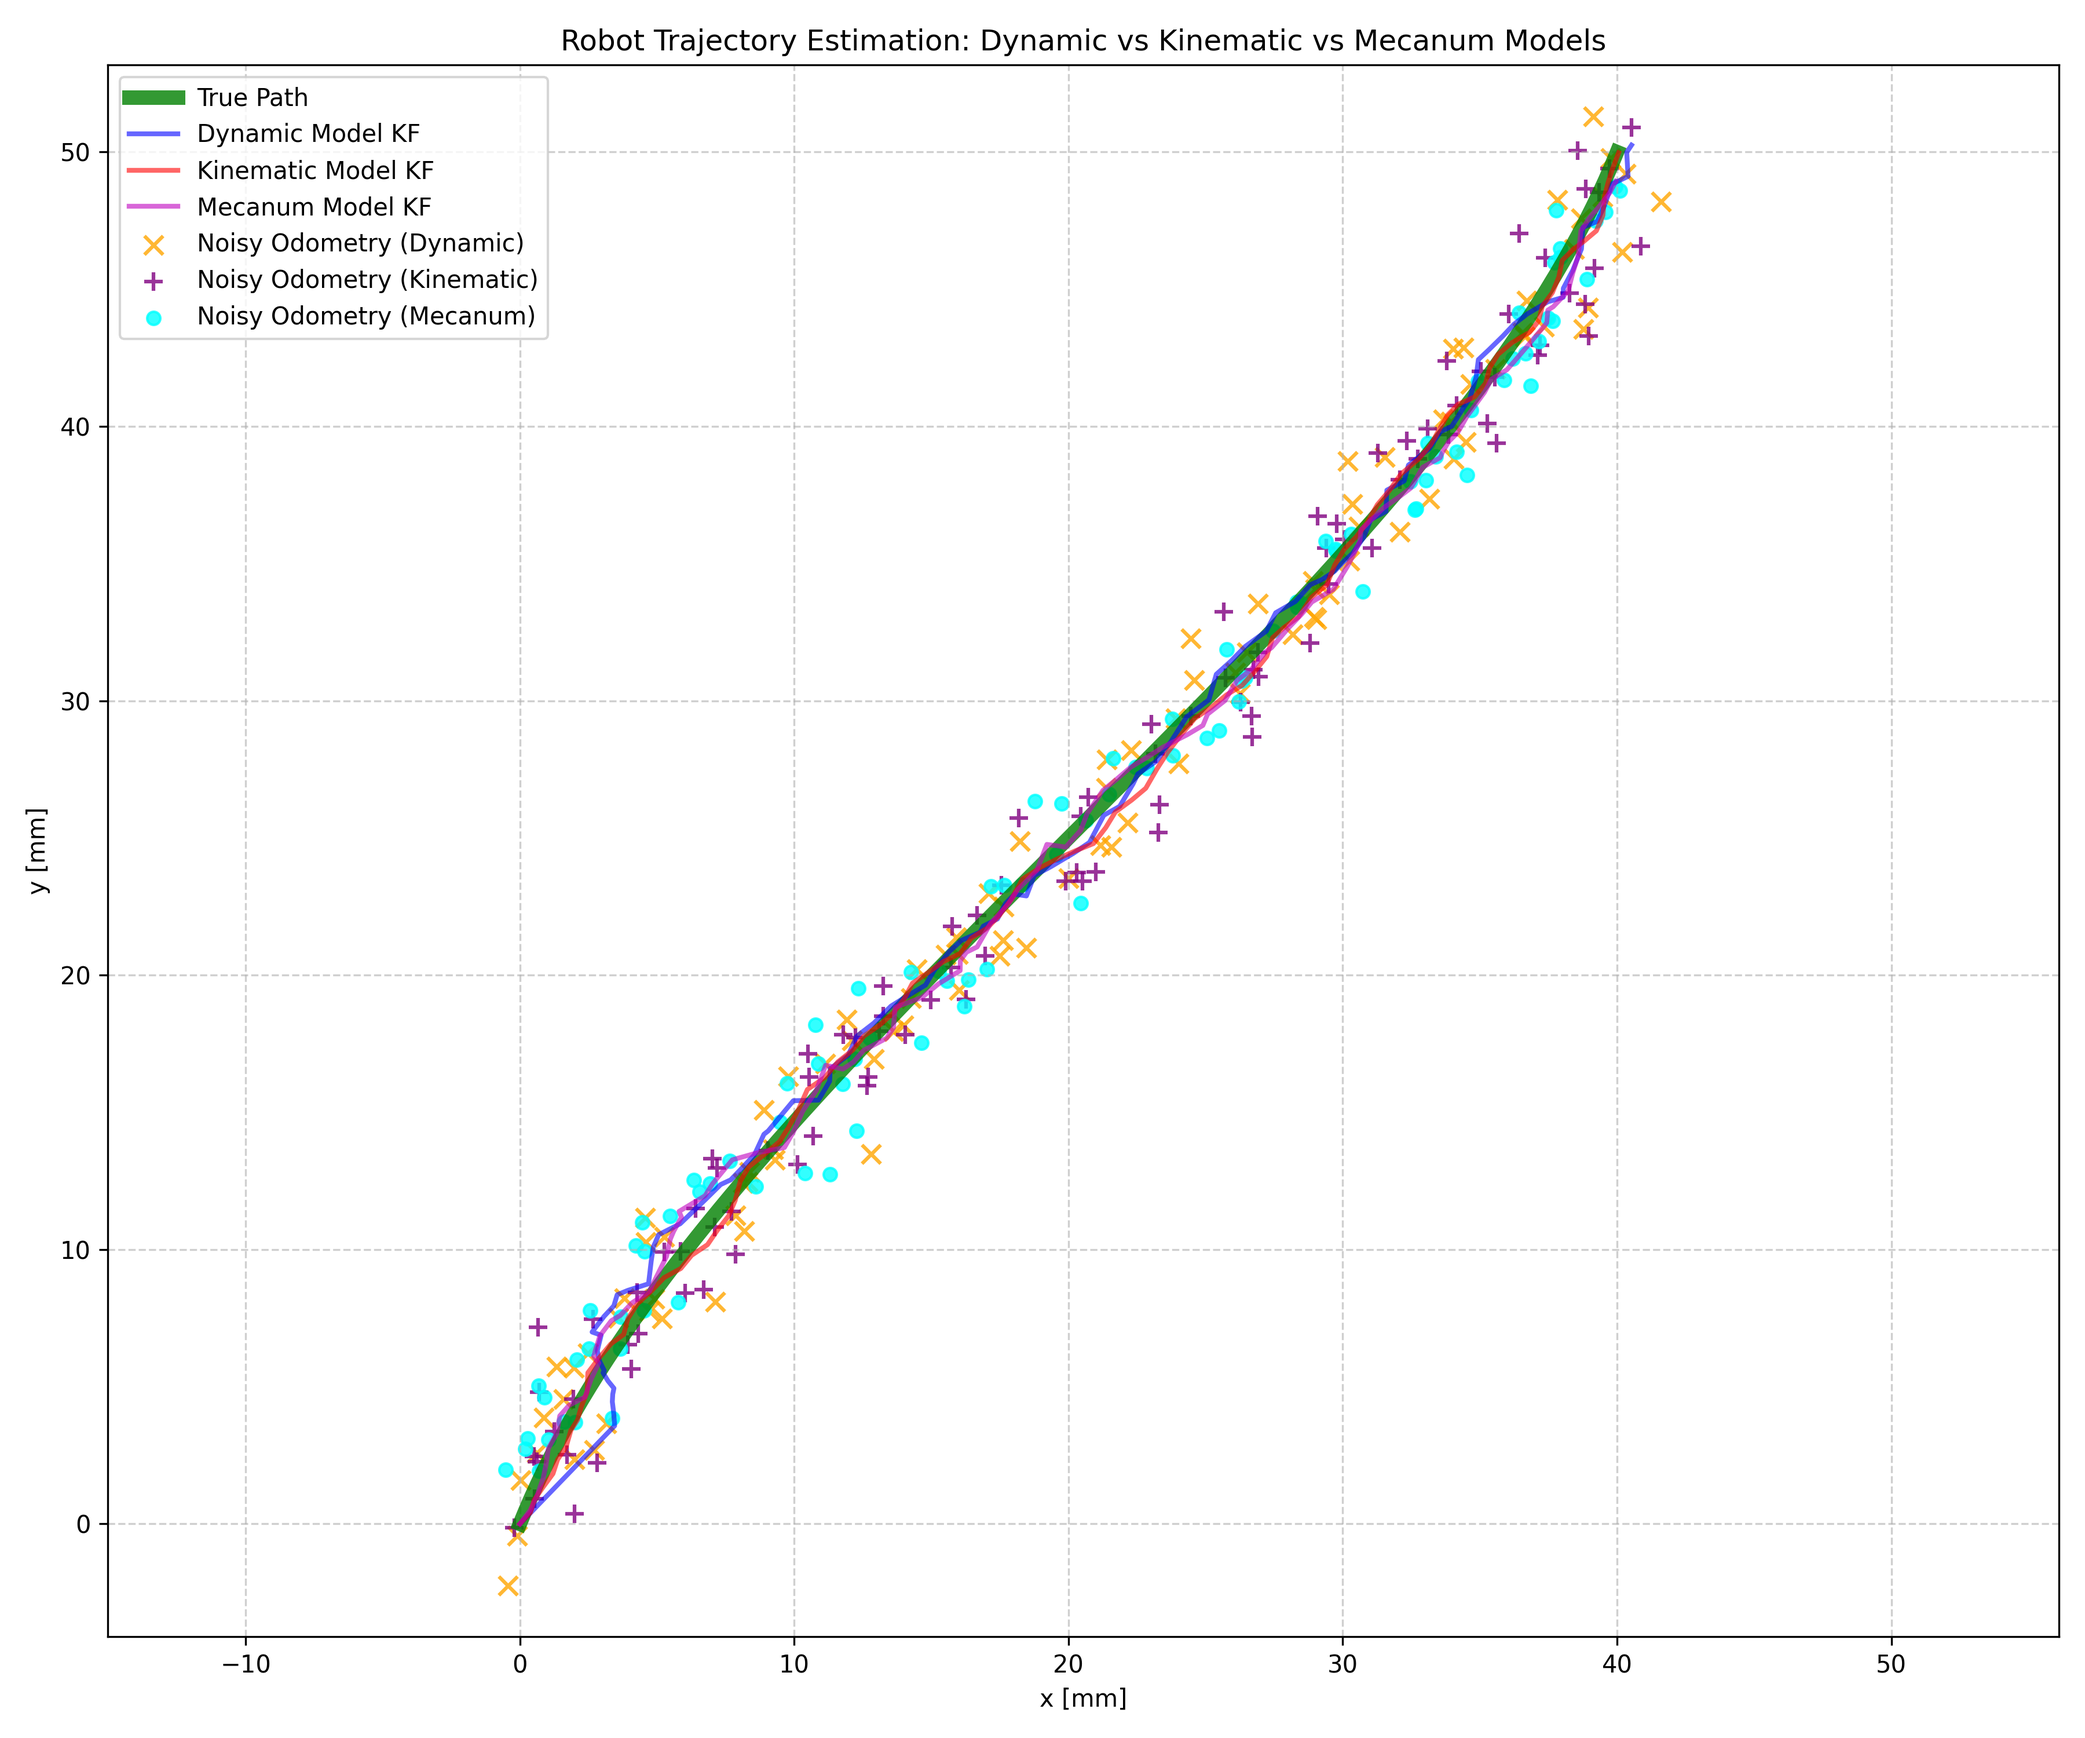
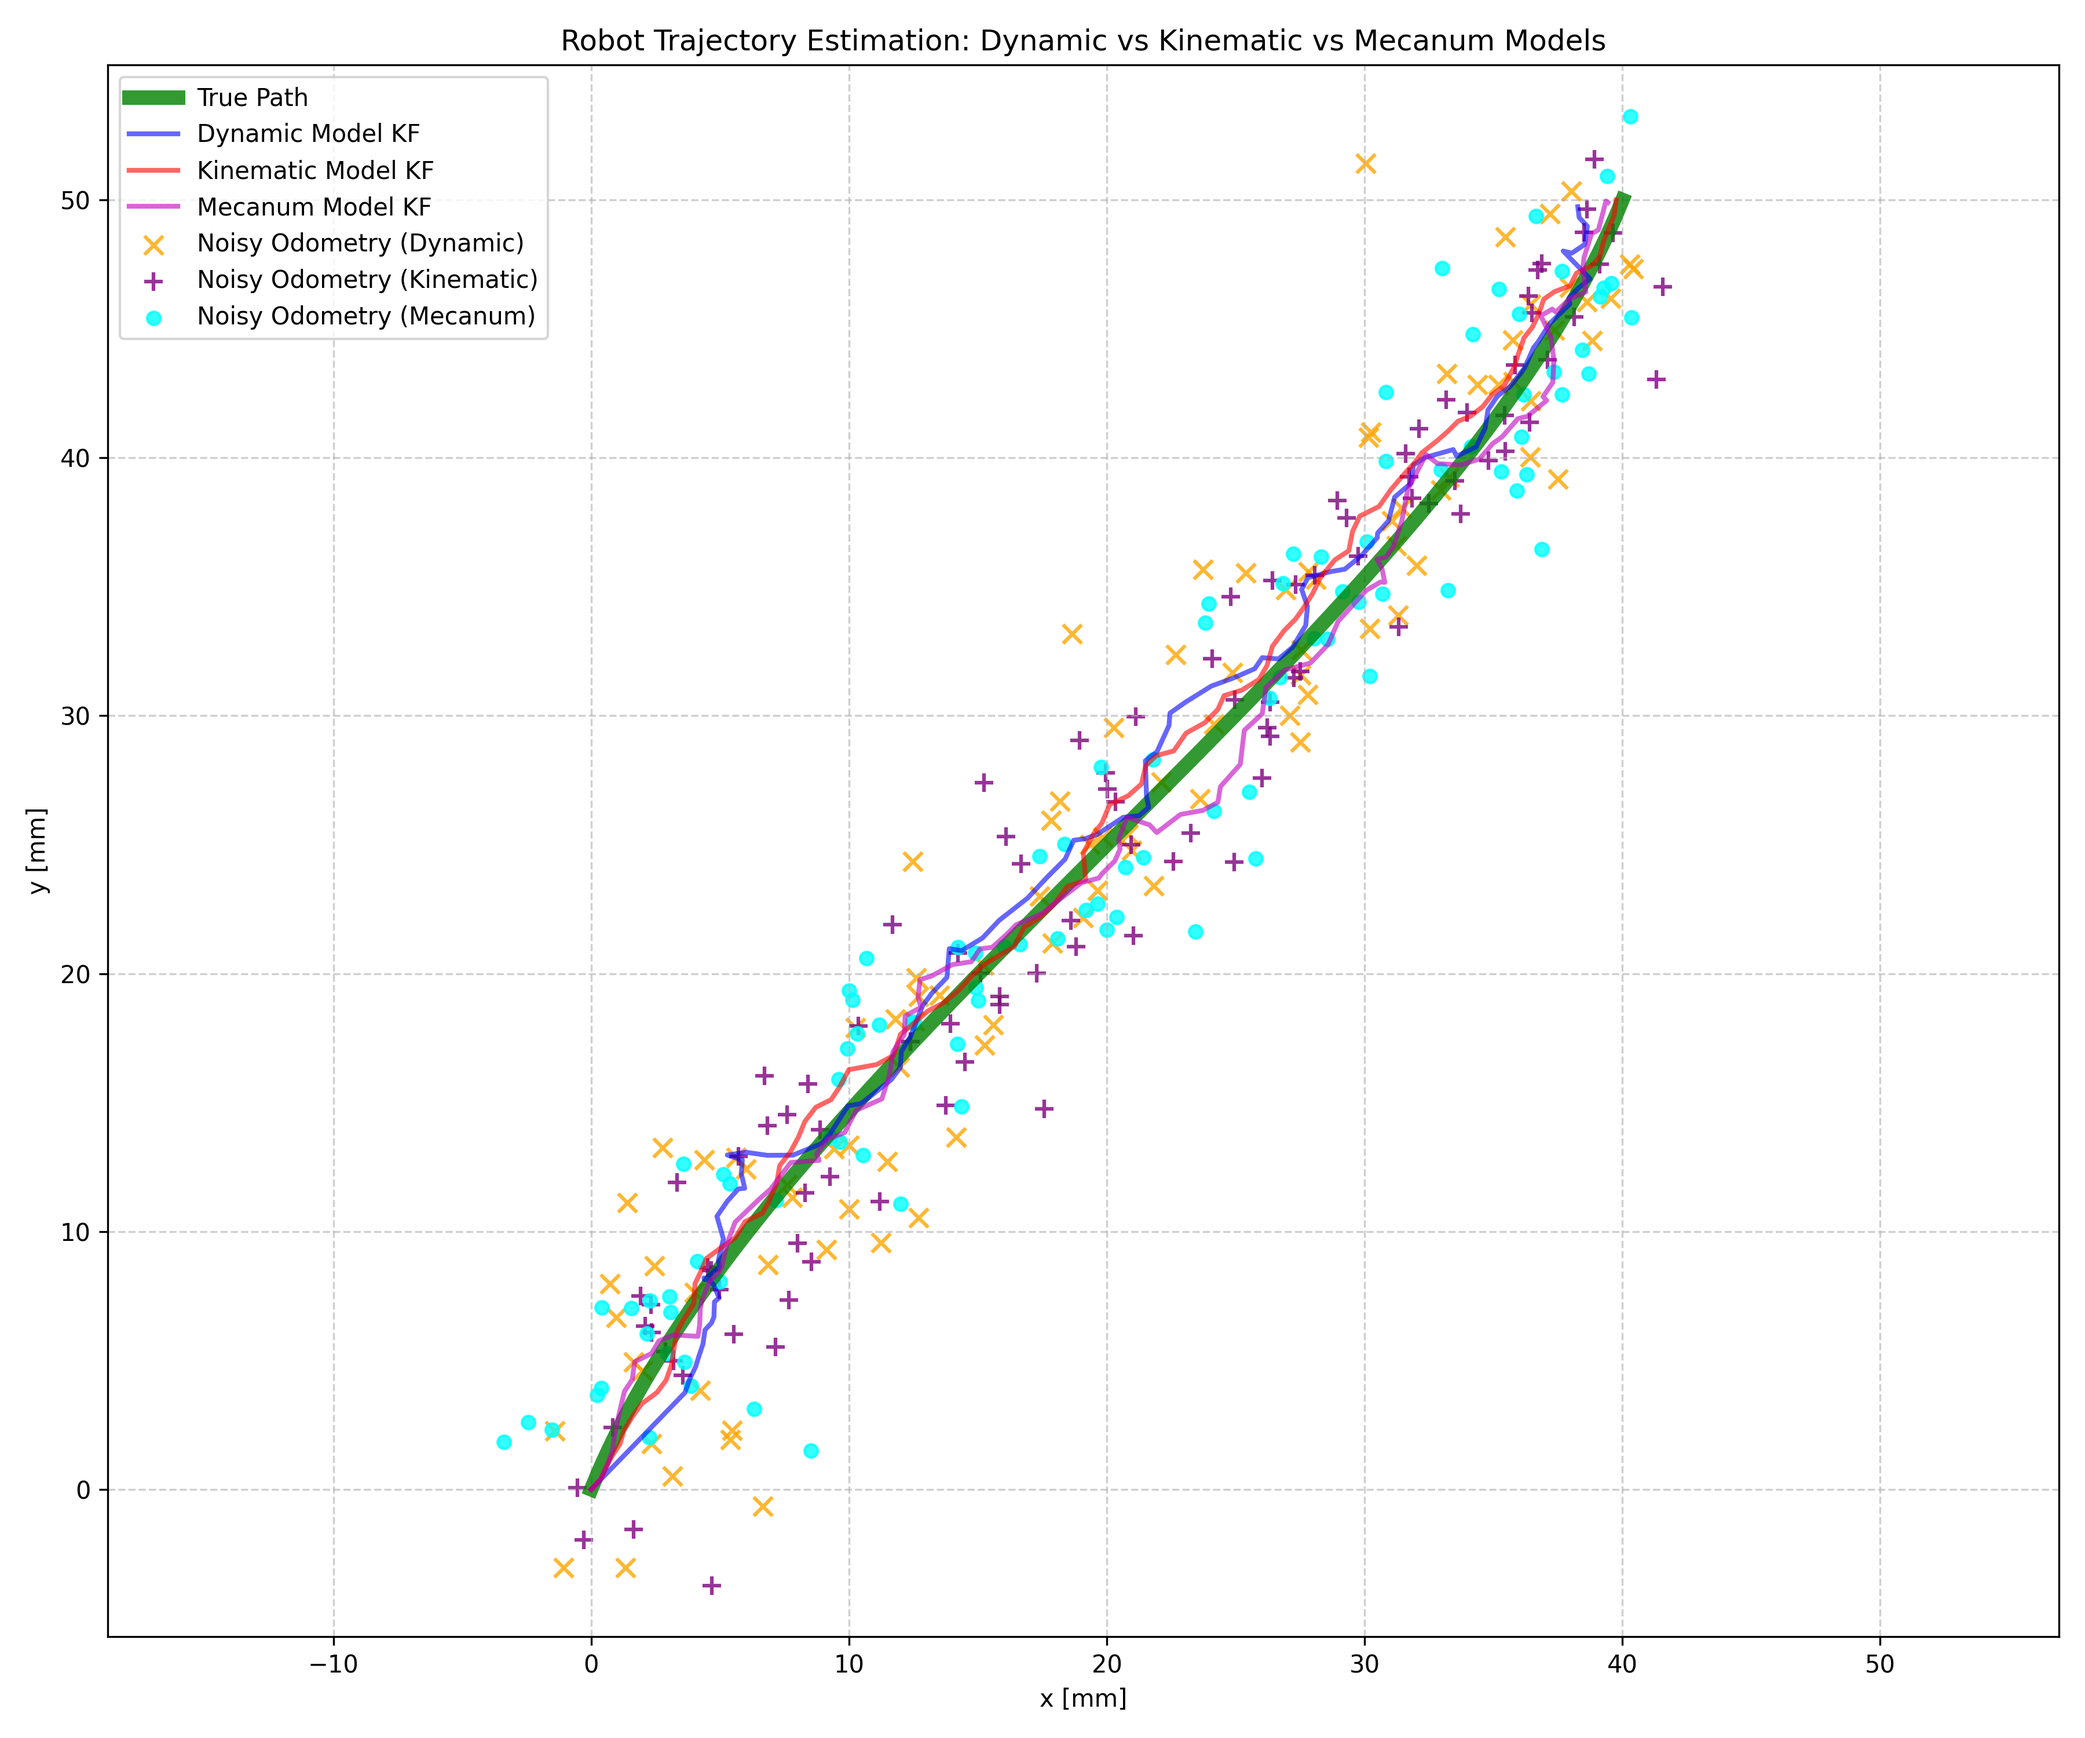
Section about tuning measurement covariance

Changed region(s): [[0.2489, 0.062, 0.8089, 0.899], [0.0311, 0.403, 0.0622, 0.434]]

diff --git a/drivebase_kalman_filter.py b/drivebase_kalman_filter.py
@@ -53,27 +53,34 @@ class KalmanFilter:
         # State vector: [x, y, theta, vx, vy, omega]
         self.state = initial_state  # Initial state of the robot
         self.P = np.eye(6)  # Initial covariance matrix
-        self.P[0, 0] = 0.05  # Position uncertainty in x [mm^2]
-        self.P[1, 1] = 0.05  # Position uncertainty in y [mm^2]
+        self.P[0, 0] = 0.025  # Position uncertainty in x [mm^2]
+        self.P[1, 1] = 0.025  # Position uncertainty in y [mm^2]
         self.P[2, 2] = 0.01  # Orientation uncertainty [rad^2]
         self.P[3, 3] = 0.1  # Velocity uncertainty in x [mm^2/s^2]
         self.P[4, 4] = 0.1  # Velocity uncertainty in y [mm^2/s^2]
         self.P[5, 5] = 0.0825  # Angular velocity uncertainty [rad^2/s^2]
         self.Q = np.eye(6)  # Process noise covariance
-        self.Q[0, 0] = 0.005    # X position noise [mm^2]
-        self.Q[1, 1] = 0.005    # Y position noise [mm^2]
-        self.Q[2, 2] = 0.001   # Orientation noise [rad^2]
+        self.Q[0, 0] = 0.01    # X position noise [mm^2]
+        self.Q[1, 1] = 0.01    # Y position noise [mm^2]
+        self.Q[2, 2] = 0.005   # Orientation noise [rad^2]
         self.Q[3, 3] = 0.075     # Velocity noise in x [mm^2/s^2]
         self.Q[4, 4] = 0.075     # Velocity noise in y [mm^2/s^2]
         self.Q[5, 5] = 0.005    # Angular velocity noise [rad^2/s^2]
         # [x, y, theta] Odometry measurement noise covariance
         self.R_odom = np.eye(3)
-        self.R_odom[0, 0] = 1.0  # Position uncertainty in x [mm^2]
-        self.R_odom[1, 1] = 1.0  # Position uncertainty in y [mm^2]
-        self.R_odom[2, 2] = 0.05  # Orientation uncertainty [rad^2]
+        self.R_odom[0, 0] = 5.0  # Position uncertainty in x [mm^2]
+        self.R_odom[1, 1] = 5.0  # Position uncertainty in y [mm^2]
+        self.R_odom[2, 2] = 0.1  # Orientation uncertainty [rad^2]
         # [omega] IMU measurement noise covariance
         self.R_imu = np.array([[0.0075]])  # Yaw rate noise [rad^2/s^2]
         self.last_timestamp = initial_timestamp  # [seconds]
+        print("Kalman Filter initialized with state:", self.state.to_array())
+        print(f"Initial covariance matrix:\n{np.round(self.P, 2)}\n")
+        print(f"Process noise covariance matrix:\n{np.round(self.Q, 2)}\n")
+        print(
+            f"Measurement noise covariance matrix (Odometry):\n{np.round(self.R_odom, 2)}\n")
+        print(
+            f"Measurement noise covariance matrix (IMU):\n{np.round(self.R_imu, 2)}\n")
 
     def normalize_angle(self, angle: float) -> float:
         """Normalizes an angle to be within -pi to pi."""

diff --git a/README.md b/README.md
@@ -41,7 +41,7 @@ $$
 
 The function that describes the state's evolution is the **process model:** $f\left(X_{prev}, U, \Delta t\right) \to X_{next}$
 
-$$\begin{bmatrix}x \\ y \\ \theta \\ v_{x} \\ v_{y} \end{bmatrix} = \begin{bmatrix}x_{prev} + V \cos\theta_{prev} \Delta t\\ y_{prev} + V\sin\theta _{prev}\Delta t\\ \theta_{prev} + \omega \Delta t\\ V a_x \Delta t\\ V a_y \Delta t\end{bmatrix}$$
+$$\begin{bmatrix}x \\ y \\ \theta \\ v_{x} \\ v_{y} \end{bmatrix} = \begin{bmatrix}x_{prev} + V \cos\theta_{prev} \Delta t \\ y_{prev} + V\sin\theta _{prev}\Delta t \\ \theta_{prev} + \omega \Delta t \\ V a_x \Delta t \\ V a_y \Delta t\end{bmatrix}$$
 
 Notice that the new velocities, $(v_x, v_y)$ are determined by the control input $V$ and the *new* orientation $\theta_{new}$. This is a *non-linear* process model because of the use of trigonometric functions on the state variable $\theta$.
 
@@ -74,6 +74,11 @@ $$z_{odom} = \left[x_{odom}, y_{odom}, \theta_{odom}\right]$$
 The measurement model selects the pose elements from the state:
 
 $$H_{odom}(X) = \left[1, 1, 1, 0, 0, 0\right]$$
+
+### Tuning Measurement Noise Covariance $(R)$
+Collect data with the robot sitting absolutely still for a specified length of time and calculate the variance of the data set for each sensor's respective values in the measurement model.
+
+$$R \approx \sigma^2 = \frac{1}{N}\sum_i^N\left(x_i - \mu\right)^2$$
 
 ## Prediction using Control Inputs
 
